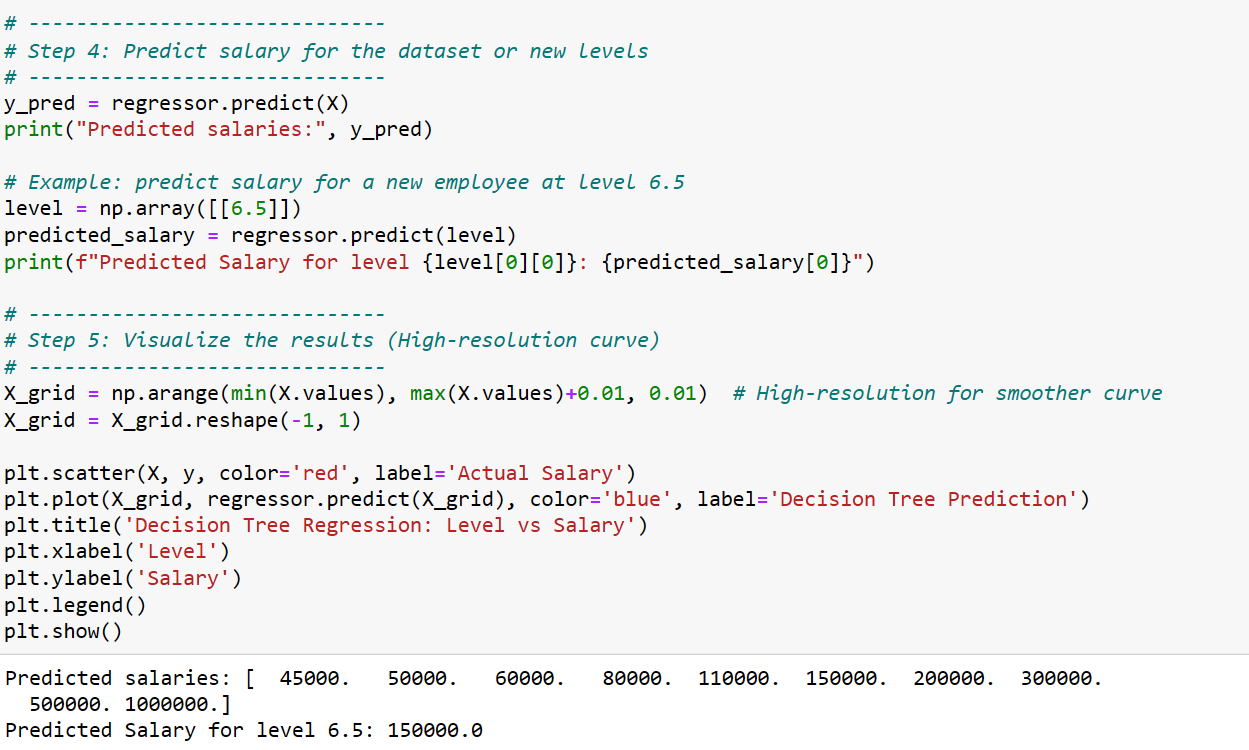
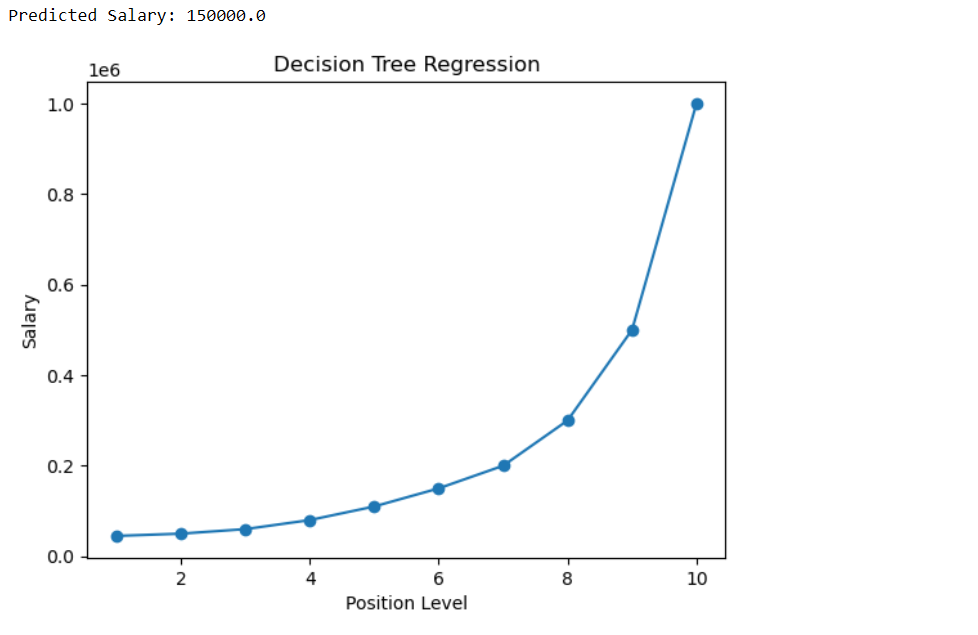
success

Changed region(s): [[0.0, 0.0, 1.0, 0.9874], [0.3374, 0.778, 0.4294, 0.8079], [0.4294, 0.748, 0.4908, 0.778]]

diff --git a/README.md b/README.md
@@ -23,58 +23,41 @@ Program to implement the Decision Tree Regressor Model for Predicting the Salary
 
 # Import libraries
 import pandas as pd
-import numpy as np
 import matplotlib.pyplot as plt
-from sklearn.tree import DecisionTreeRegressor
+from sklearn.tree import DecisionTreeRegressor, plot_tree
 
-# ------------------------------
-# Step 1: Sample dataset
-# ------------------------------
-data = {
-    'Position': ['Business Analyst', 'Junior Consultant', 'Senior Consultant',
-                 'Manager', 'Country Manager', 'Region Manager',
-                 'Partner', 'Senior Partner', 'C-level', 'CEO'],
-    'Level': [1, 2, 3, 4, 5, 6, 7, 8, 9, 10],
-    'Salary': [45000, 50000, 60000, 80000, 110000, 150000, 200000, 300000, 500000, 1000000]
-}
+df = pd.read_csv("Salary.csv")
 
-df = pd.DataFrame(data)
+X = df[['Level']]
 
-# ------------------------------
-# Step 2: Split features and target
-# ------------------------------
-X = df[['Level']]     # Feature (Level)
-y = df['Salary']      # Target (Salary)
+y = df['Salary']
 
-# ------------------------------
-# Step 3: Create Decision Tree Regressor
-# ------------------------------
-regressor = DecisionTreeRegressor(random_state=42)
-regressor.fit(X, y)
+model = DecisionTreeRegressor(random_state=42)
 
-# ------------------------------
-# Step 4: Predict salary for the dataset or new levels
-# ------------------------------
-y_pred = regressor.predict(X)
-print("Predicted salaries:", y_pred)
+model.fit(X, y)
 
-# Example: predict salary for a new employee at level 6.5
-level = np.array([[6.5]])
-predicted_salary = regressor.predict(level)
-print(f"Predicted Salary for level {level[0][0]}: {predicted_salary[0]}")
+prediction = model.predict([[6.5]])
 
-# ------------------------------
-# Step 5: Visualize the results (High-resolution curve)
-# ------------------------------
-X_grid = np.arange(min(X.values), max(X.values)+0.01, 0.01)  # High-resolution for smoother curve
-X_grid = X_grid.reshape(-1, 1)
+print("Predicted Salary:", prediction[0])
 
-plt.scatter(X, y, color='red', label='Actual Salary')
-plt.plot(X_grid, regressor.predict(X_grid), color='blue', label='Decision Tree Prediction')
-plt.title('Decision Tree Regression: Level vs Salary')
-plt.xlabel('Level')
-plt.ylabel('Salary')
-plt.legend()
+plt.scatter(df['Level'], df['Salary'])
+
+plt.plot(df['Level'], model.predict(X))
+
+plt.xlabel("Position Level")
+plt.ylabel("Salary")
+plt.title("Decision Tree Regression")
+
+plt.show()
+
+plt.figure(figsize=(12,8))
+
+plot_tree(model,
+          feature_names=['Level'],
+          filled=True)
+
+plt.title("Decision Tree Regressor Tree")
+
 plt.show()
 
 Developed by: Swathi P N